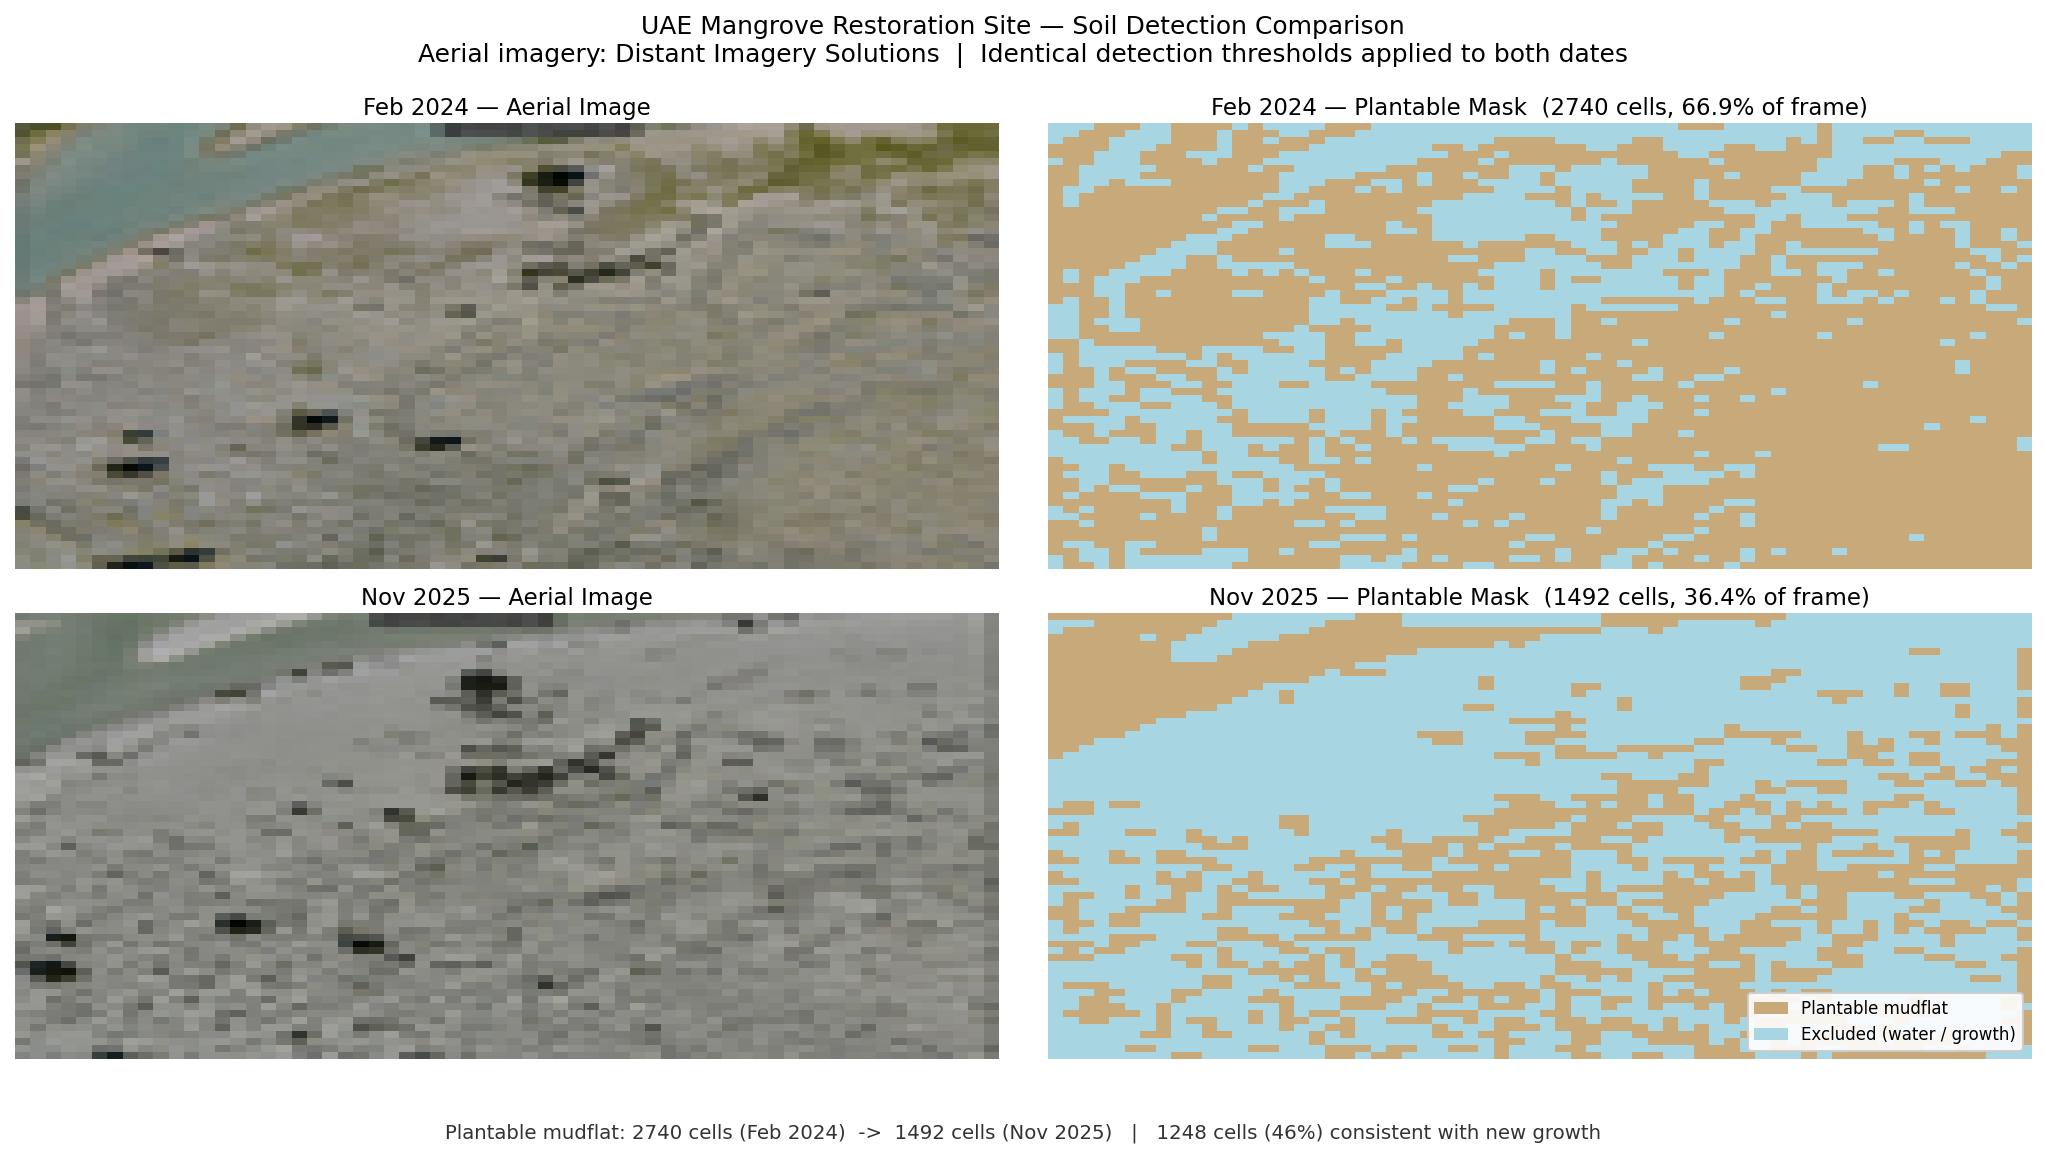
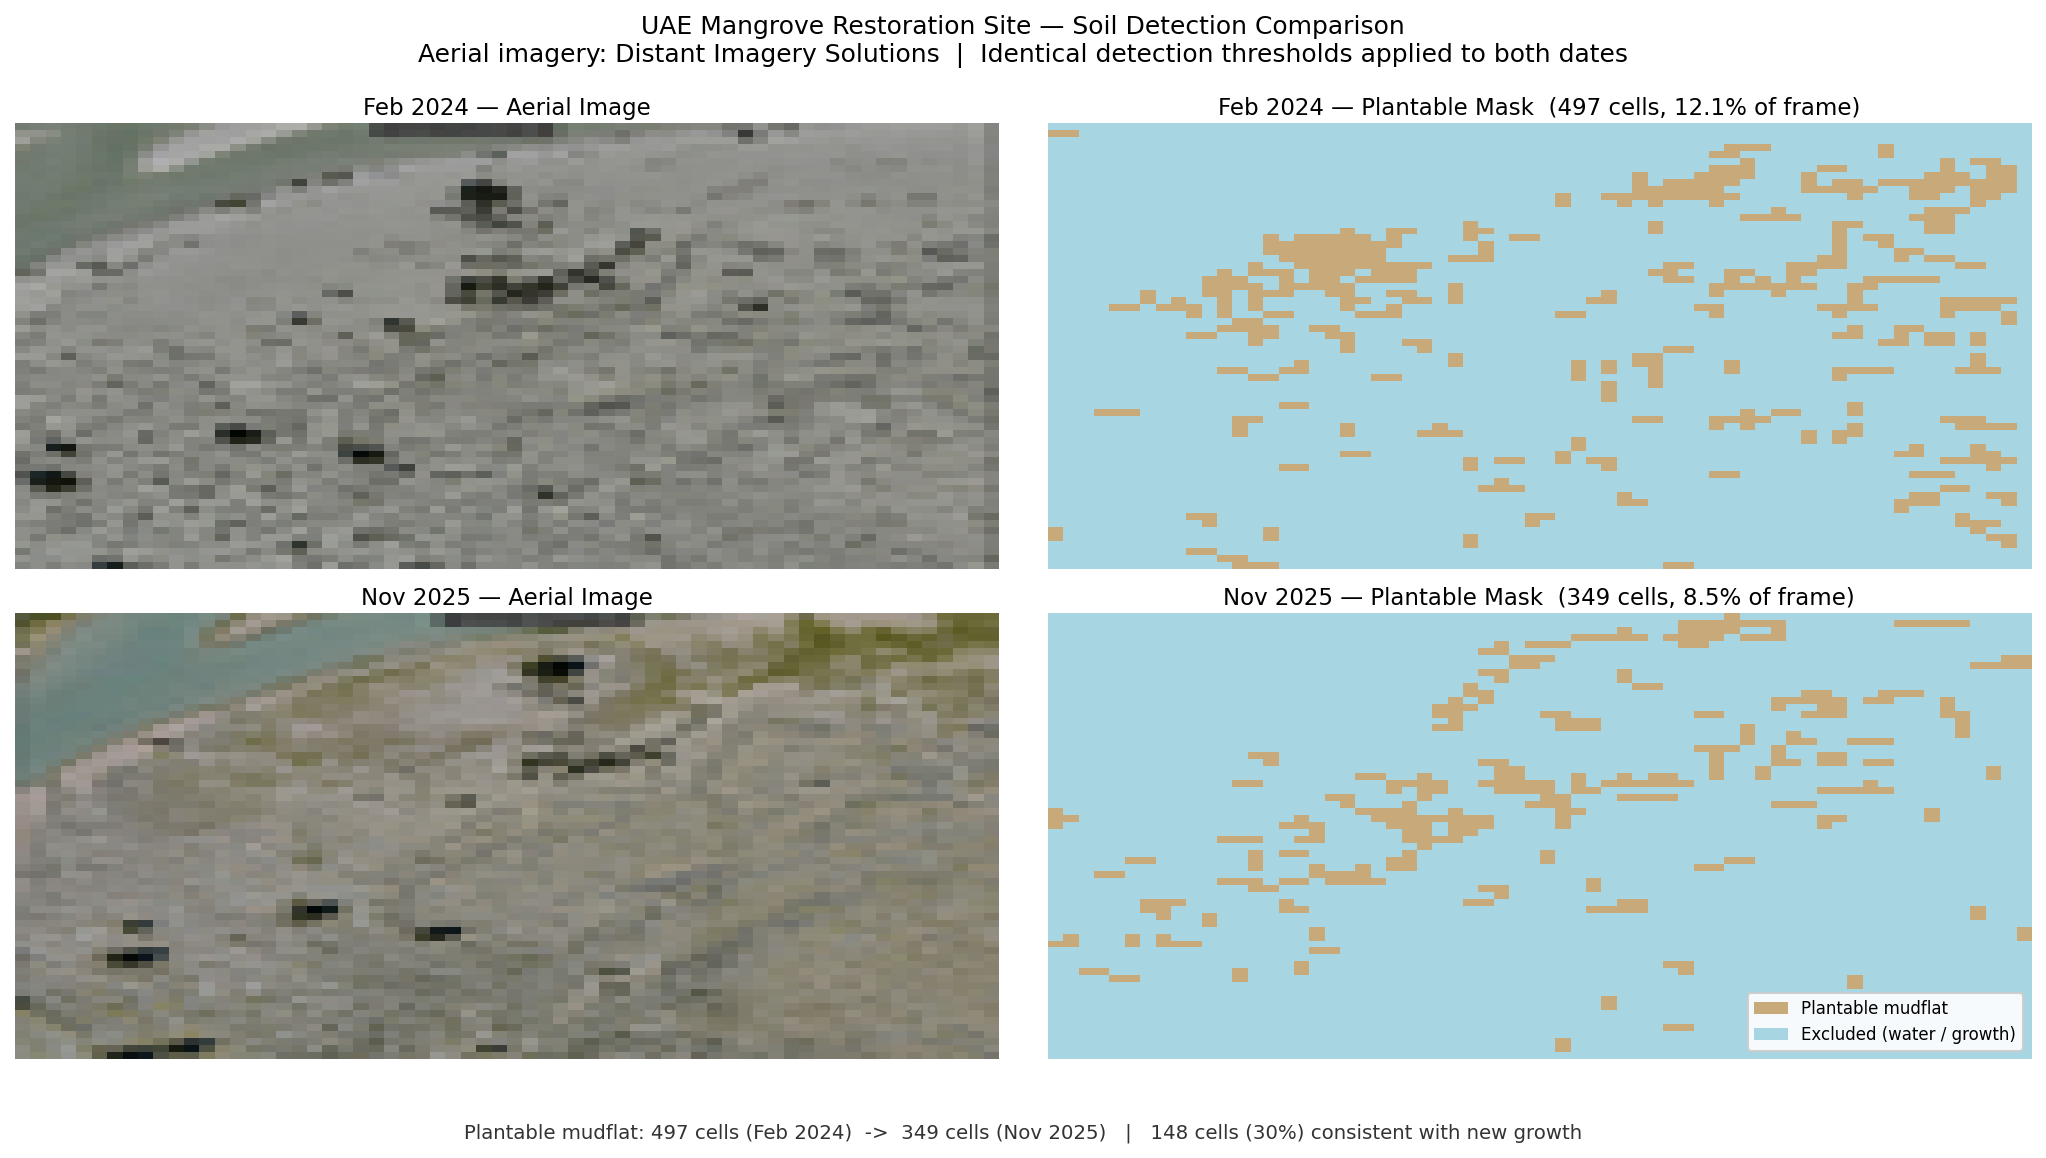
Fix validation figure thresholds and README citations
- Recalibrate before/after detection to ndvi=0.10, water=0.55, brightness=0.55;
  correct file assignment (before.jpg=Feb 2024, after.jpg=Nov 2025 confirmed)
- Update cell counts: 497 cells (12.1%) -> 349 cells (8.5%), ~30% transition
- Remove Distant Imagery Solutions citation from Soil Detection Pipeline section;
  citation appears only in Real-World Validation where the source images are used

diff --git a/generate_validation_comparison.py b/generate_validation_comparison.py
@@ -21,21 +21,18 @@ from src.reforestation.soil_detector import detect_soil_mask, load_field_image
 NROWS = 64
 NCOLS = 64
 
-# Same thresholds as run_mangrove.py
+# Thresholds calibrated for the before/after validation images
 THRESHOLDS = dict(
     nrows=NROWS,
     ncols=NCOLS,
-    soil_ndvi_threshold=0.12,
-    water_blue_threshold=0.50,
-    min_brightness_threshold=0.42,
+    soil_ndvi_threshold=0.10,
+    water_blue_threshold=0.55,
+    min_brightness_threshold=0.55,
     min_patch_cells=2,
 )
 
-# Note: the files on disk are swapped relative to their names.
-# after.jpg shows MORE bare mudflat (fewer trees) = Feb 2024 pre-reforestation state.
-# before.jpg shows LESS bare mudflat (more growth) = Nov 2025 post-reforestation state.
-FEB2024_PATH = 'aerial_mangrove_images/after.jpg'
-NOV2025_PATH = 'aerial_mangrove_images/before.jpg'
+FEB2024_PATH = 'aerial_mangrove_images/before.jpg'
+NOV2025_PATH = 'aerial_mangrove_images/after.jpg'
 
 CMAP_MASK = mcolors.ListedColormap(['#a8d5e2', '#c8a97a'])
 

diff --git a/README.md b/README.md
@@ -49,8 +49,6 @@ All parameters feed directly into the planner and simulator. Adjusting NDVI or b
 
 <img src="results/phase5_soil_detection.png" width="900"/>
 
-*Aerial imagery: [Distant Imagery Solutions](https://www.linkedin.com/posts/distant-imagery-solutions_makeitintheemirates-uae-abudhabi-activity-7452634016509255680-j7p0) — UAE mangrove restoration site. Used with reference to demonstrate real-world soil detection on coastal imagery.*
-
 The system takes a raw aerial RGB image and automatically identifies plantable mudflat, excluding open water and existing canopy:
 
 1. **Pseudo-NDVI** from RGB channels — isolates tidal water (high NDVI threshold)
@@ -68,14 +66,14 @@ All thresholds are configurable. A production deployment would use actual NIR im
 
 The before/after aerial images from Distant Imagery Solutions cover the same section of a UAE mangrove restoration site, photographed approximately 21 months apart (February 2024, November 2025). Running both images through the soil detection pipeline with identical thresholds produces a useful directional check: does the system correctly detect the growth that actually occurred?
 
-- Feb 2024 plantable mudflat: 2,740 cells (66.9% of the frame)
-- Nov 2025 plantable mudflat: 1,492 cells (36.4% of the frame)
+- Feb 2024 plantable mudflat: 497 cells (12.1% of the frame)
+- Nov 2025 plantable mudflat: 349 cells (8.5% of the frame)
 
 The pipeline identifies substantially less bare mudflat in the 2025 image — consistent with new growth covering previously exposed sediment. This is the core function the app depends on: distinguishing existing growth from bare mudflat to determine where dropping additional seeds makes sense. Areas already supporting growth are correctly excluded as non-candidates; exposed sediment is flagged as plantable. The before/after comparison suggests the detector is picking up genuine ecological change rather than noise.
 
 This is not a full validation of the method — the images differ in tidal state, the crop alignment isn't guaranteed, and RGB brightness cannot perfectly separate juvenile growth from shadows or sediment texture. But it is at least *directionally* consistent with what happened on the ground.
 
-**As an aside**, treating the converted cells as a rough proxy for establishment: 1,248 of the 2,740 (2024) plantable cells appear to have transitioned to growth by 2025, implying ~45% change in bare mudflat coverage. A 2023 ADIPEC paper by AlRaisi et al. on ADNOC's drone-led mangrove restoration at Abu Dhabi sites reported survival rates "remained above 40%".<sup>1</sup> The ~45% figure from this single cropped frame is in the same order of magnitude — plausible given the RGB-only method — but should not be read as a survival rate estimate. A [February 2023 article in The Ethicalist](https://theethicalist.com/drones-million-mangrove-abu-dhabi/) provides additional public context on the broader programme.
+**As an aside**, treating the converted cells as a rough proxy for establishment: 148 of the 497 (2024) plantable cells appear to have transitioned to growth by 2025, implying ~30% change in bare mudflat coverage. A 2023 ADIPEC paper by AlRaisi et al. on ADNOC's drone-led mangrove restoration at Abu Dhabi sites reported survival rates "remained above 40%".<sup>1</sup> The ~30% figure from this single cropped frame is in the same order of magnitude — plausible given the RGB-only method — but should not be read as a survival rate estimate. A [February 2023 article in The Ethicalist](https://theethicalist.com/drones-million-mangrove-abu-dhabi/) provides additional public context on the broader programme.
 
 <img src="aerial_mangrove_images/1776846410259.jfif" width="900"/>
 
